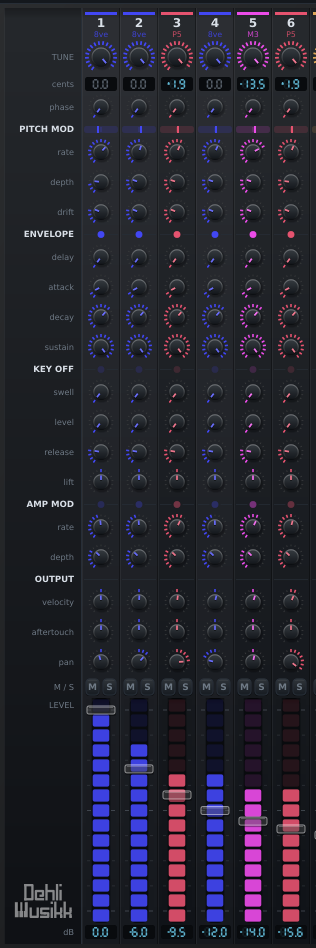
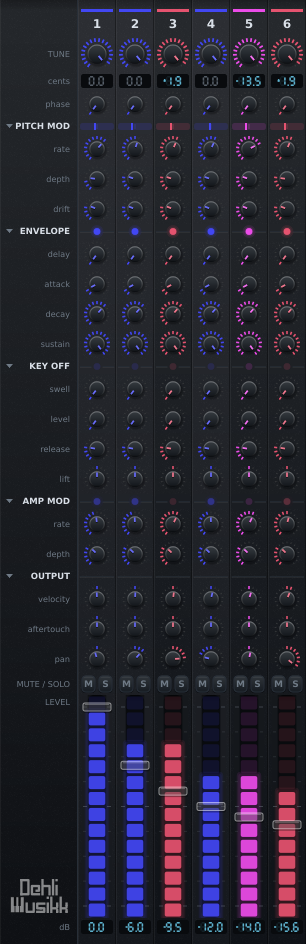
Regenerate the screenshots and fix the update feed

diff --git a/docs/controls/index.html b/docs/controls/index.html
@@ -20,8 +20,8 @@
             content="A reference for every Overtonium control: the twenty-one on each of the 32 channel strips, the two-part envelope, per-partial velocity and pressure, LINK for ganging the series, the lamps and meters, MPE, and the wobble, tape echo, reverb and converter on the bar."
         />
         <meta property="og:image" content="https://benjamindehli.github.io/overtonium/overtonium-strips.png" />
-        <meta property="og:image:width" content="316" />
-        <meta property="og:image:height" content="948" />
+        <meta property="og:image:width" content="306" />
+        <meta property="og:image:height" content="944" />
         <meta
             property="og:image:alt"
             content="A close view of six Overtonium channel strips beside the caption gutter that names each row of knobs."
@@ -94,8 +94,8 @@
                         <img
                             src="../overtonium-strips.png"
                             alt="A close view of the first six channels, showing the row captions in the gutter and the interval colour of each channel."
-                            width="316"
-                            height="948"
+                            width="306"
+                            height="944"
                         />
                         <figcaption>
                             Six channels and the caption gutter. Captions are named once on the left rather than repeated across every strip.
@@ -466,7 +466,7 @@
                             src="../overtonium-bar.png"
                             alt="The top bar: preset and settings buttons, LINK, the stretch, track and wobble controls, the tape echo, the reverb, the master fader and the output meter with two seven-segment converter readouts."
                             width="1348"
-                            height="74"
+                            height="66"
                         />
                     </figure>
 
